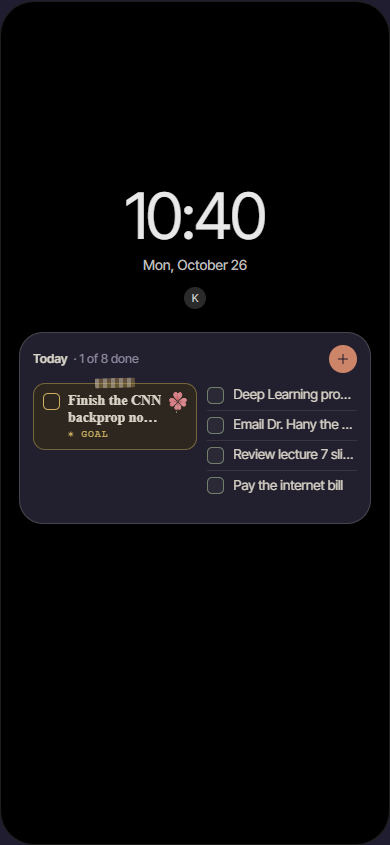
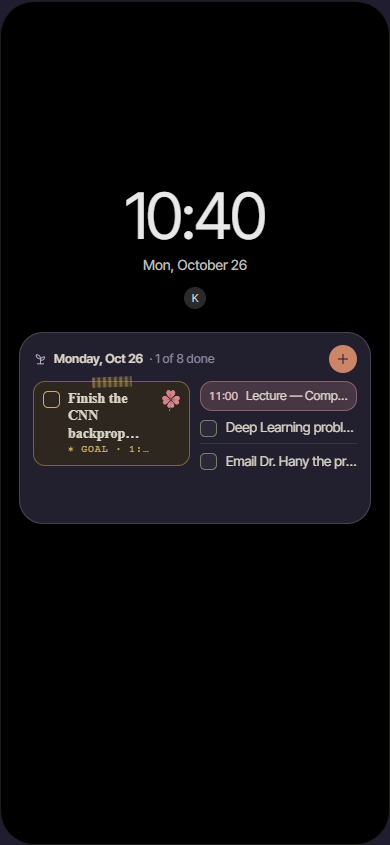
design(today-looks): Samsung lock screen — research verdict + options A LockStar widget, B Now Bar Live Update, C ongoing day-strip notification (lock + AOD, day + night)
Each option labelled with the One UI version it needs and how it would be built; sources in the handoff.

Changed region(s): [[0.0923, 0.4, 0.9231, 0.5846], [0.0923, 0.5231, 0.1231, 0.5538]]

diff --git a/design-export/Phone home options.html b/design-export/Phone home options.html
@@ -670,10 +670,10 @@ const lsStat = (aod) => `<div class="st"><span>${aod ? '' : '10:40'}</span><span
 const lsFrame = (aod, inner, o = {}) => `<div class="ls ${aod ? 'aod' : 'wall'}">${lsStat(aod)}${o.chip && !aod ? `<span class="chipsb">◷ ${o.chip}</span>` : ''}<div class="clk">10:40</div><div class="dt">Mon, October 26${aod ? '' : ' · ☀ 27°'}</div>${aod ? `<div class="icons">${(o.aodIcons ?? ['K']).map((x) => `<i>${x}</i>`).join('')}</div>` : ''}${inner}${aod ? '' : '<div class="fp"></div><span class="sc" style="left:26px">☏</span><span class="sc" style="right:26px">◉</span>'}</div>`
 const segs = () => { const tot = 22 - 8; return `<span class="nbseg">${EV.map((e, i) => `<i style="width:${((e.b - e.a) / tot) * 100}%;background:var(--blk-${e.c});opacity:${e.past ? .5 : 1}"></i>`).join('')}</span>` }
 const nowBar = () => `<div class="nowbar"><span class="ap">K</span><span class="ti">Lecture — Computer Vision<small>11:00–12:30 · then ✶ CNN notes 1:30</small>${segs()}</span><span class="crit">20m</span></div>`
-const lockWidget = (aod) => `<div class="slot" style="top:${aod ? 330 : 236}px;height:192px"><div class="cell" style="position:absolute;inset:0"><div class="wg" style="inset:0${aod ? ';opacity:.9' : ''}">${FAM.A.m()}</div></div></div>`
+const lockWidget = (aod) => `<div class="slot" style="top:${aod ? 330 : 236}px;height:192px"><div class="cell" style="position:absolute;inset:0"><div class="wg" style="inset:0${aod ? ';opacity:.9' : ''}">${EX.find((x) => x[0] === '04')[6]()}</div></div></div>`
 const stripNote = (aod) => `<div class="slot" style="top:${aod ? 300 : 238}px"><div class="nt"><div class="hd"><b>K</b>Kai's Flow · now</div><div class="t">Next · 11:00 Lecture — Computer Vision</div><div class="cust"><div class="wg" style="position:relative;inset:auto;padding:0;border:0;background:none;box-shadow:none">${(() => { const x = (h) => ((h - 8) / 14) * 100; return `<div class="wstrip" style="margin-top:2px">${EV.map((e) => `<span class="rb${e.past ? ' past' : ''}${e.goal ? ' goal' : ''}" style="${B(e.c)};left:${x(e.a)}%;width:${x(e.b) - x(e.a)}%"></span>`).join('')}<span class="nw" style="left:${x(NOW)}%"></span><div class="ax"><span>8</span><span>12</span><span>16</span><span>20</span></div></div>` })()}</div></div><div class="acts"><span>Start focus</span><span>Snooze 10 min</span></div></div></div>`
 const LOCK = [
-  ['A', 'Top 3 widget on the lock screen and AOD', 'Matches direction A. The redone Checklist widget (medium, 4 × 2) sits under the clock, and the AOD shows it too. The ticks are the widget\'s own ticks. Anything that opens the app asks you to unlock first.',
+  ['A', 'Top 3 widget on the lock screen and AOD', 'Matches direction A. The modern W04 Today · Top 3 widget (4 × 2, from the grid below) sits under the clock, and the AOD shows it too. The ticks are the widget\'s own ticks. Anything that opens the app asks you to unlock first.',
     ['One UI 6.1, 7, 8: through Good Lock › LockStar', 'Built as: our existing AppWidget (no new code path)'], ['Not in the lock screen\'s own widget picker (Samsung widgets only)'],
     (aod) => lsFrame(aod, lockWidget(aod), { aodIcons: ['K'] })],
   ['B', 'Now Bar Live Update: the block that\'s on now', 'Matches direction B. The Now Bar shows the current or next block, with today\'s blocks as palette C segments and "20m" as the chip, and the status bar shows the same chip. Samsung draws the pill. We choose the words, the icon and the segment colours.',
@@ -683,14 +683,14 @@ const LOCK = [
     ['One UI 6.1, 7, 8', 'Built as: an ongoing notification with a custom RemoteViews layout (DecoratedCustomViewStyle) and actions; a Chronometer for the countdown'], ['Not a Live Update (custom layouts can\'t be promoted)'],
     (aod) => lsFrame(aod, aod ? '' : stripNote(aod), { aodIcons: ['K', '✉', '◷'] })],
 ]
-document.getElementById('lockopts').innerHTML = LOCK.map(([d, name, say, needs, nots, draw]) => `
+const renderLock = () => { document.getElementById('lockopts').innerHTML = LOCK.map(([d, name, say, needs, nots, draw]) => `
   <div class="look" style="margin-top:28px" data-grp="lock" data-look="${d}">
     <h2 style="font-size:24px"><span class="tag">${d}</span>${name}</h2>
     <div class="say"><p>${say}</p></div>
     <div class="need">${needs.map((n) => `<span>${n}</span>`).join('')}${nots.map((n) => `<span class="no">${n}</span>`).join('')}</div>
     <div class="shots"><figure data-lock="${d}-lock">${draw(false)}<figcaption>Lock screen (the widget follows the phone's day or dark mode)</figcaption></figure><figure data-lock="${d}-aod">${draw(true)}<figcaption>Always On Display</figcaption></figure></div>
     <div class="pick-row"><button type="button" class="btn pick" data-grp="lock" data-pick="${d}" aria-pressed="false">This one (lock ${d})</button></div>
-  </div>`).join('')
+  </div>`).join('') }
 
 // ════════ the 32 widgets: redo / restyle / merge — every one gets its modern face (Kai 26 Oct: build every widget,
 // nothing is cut). One family style, led by B (Now + next): the paper card at the system radius, a line icon + a
@@ -782,6 +782,7 @@ document.getElementById('exgrid').innerHTML = EX.map(([n, name, w, h, v, why, dr
     <div class="cf"><button type="button" class="btn pick" data-grp="w${n}" data-pick="ok" aria-pressed="false">Agree</button><button type="button" class="btn pick" data-grp="w${n}" data-pick="no" aria-pressed="false">Not this</button></div>
   </div>`).join('')
 
+renderLock()
 // ── density: task rows wholly on screen (the goal counts as one), counted in the drawing itself ──
 function count(frame) {
   const fb = frame.getBoundingClientRect().bottom

diff --git a/docs/log/2026-10-26-1720-today-looks-handoff.md b/docs/log/2026-10-26-1720-today-looks-handoff.md
@@ -265,3 +265,64 @@ W02, W08, W09–W13, W16–W18, W21–W23, W25–W28, W31–W34.
 - system `serif` for the display moments.
 
 **Shots:** `docs/log/assets/today-looks/phone/widgets-existing-day.png` and `widgets-existing-night.png`.
+
+## Push 2: the Samsung lock screen is FINAL
+
+**Final:** the lock-screen section (`#lockscreen`). The widget grid is unchanged from push 1, except that lock option A now shows the modern W04.
+
+### Research verdict: what a third-party app can put on Samsung's lock screen
+
+Web search done 2026-10-26 (extended mode).
+
+| Surface | One UI 6.1 | One UI 7 | One UI 8 (Android 16) | How we'd build it |
+|---|---|---|---|---|
+| Lock screen / AOD widget picker (native) | Samsung's own only | Samsung's system widgets only; no third-party | Third-party not confirmed. Google's lock-screen "hub" with any app's widgets arrives in Android 16 QPR2 on Pixels; Samsung was *expected* to adopt it, but nothing confirms it ships | — |
+| Good Lock › LockStar | Any AppWidget on the lock screen and AOD | Any AppWidget (LockStar 7.0.00.14+, plugs into the native editor) | Works. In the 8.5 beta, LockStar is reported broken | Our existing AppWidgets; nothing new to build |
+| Now Bar / Live Notifications | Doesn't exist | Samsung's apps and a few partners only | Any app posting an Android 16 Live Update. In Beta 3 it was behind the developer switch "Live notifications for all apps", expected on in stable; Zomato ships it on 8.0 | Ongoing notification with ProgressStyle (or Standard / BigText), `setRequestPromotedOngoing(true)`, `POST_PROMOTED_NOTIFICATIONS`, `setShortCriticalText`. No custom RemoteViews, not colorized, not a group summary, channel above MIN |
+| Ongoing notification on the lock screen | Yes | Yes | Yes (and promotable) | NotificationCompat ongoing, actions, Chronometer. A custom layout is allowed but then can't be a Live Update |
+| AOD | Notification icons; FaceWidgets are Samsung's | Icons; the Now Bar if "Show Now bar" is on; LockStar widgets | Same | — |
+
+Samsung draws the Now Bar itself. We only control:
+- the icon, title and text;
+- the short chip text;
+- the ProgressStyle segments and points, and their colours.
+
+We can't control fonts, the paper look or layout.
+
+**The options drawn** (matching A/B/C):
+- **A · a lock-screen widget through LockStar.** One UI 6.1, 7, 8. It's the AppWidget we already have, so no new code. It is *not* in the native picker.
+- **B · a Now Bar Live Update.** One UI 8+ only. ProgressStyle, with today's blocks as palette C segments and "20m" in the chip. On One UI 6.1 / 7 it falls back to an ordinary notification.
+- **C · an ongoing notification with the day strip.** Every version. A custom layout, so it's not promotable. The AOD shows only its icon.
+
+To check on Kai's phone:
+- the One UI version (Settings › About phone › Software information);
+- whether Good Lock is offered in his region;
+- whether a widget tick works without unlocking. A tick is a broadcast, so it may run while locked; opening the app always asks to unlock.
+
+**Sources:**
+- [SamMobile: One UI 7 removes the lock-screen widget carousel](https://www.sammobile.com/news/one-ui-7-lock-screen-widgets-carousel-removed/)
+- [Android Authority: One UI 7's big lock-screen widget change](https://www.androidauthority.com/one-ui-7-widget-carousel-3507162/)
+- [Samsung support: widgets on the lock screen and AOD in One UI 7+](https://www.samsung.com/ae/support/mobile-devices/how-to-add-widgets-on-the-lock-screen-and-aod-in-one-ui-7-or-later/)
+- [9to5Google: Good Lock lets you use any widget on the lock screen](https://9to5google.com/2023/08/07/samsung-good-lock-lockscreen-widgets/)
+- [Android Police: any widget on the lock screen / AOD via Good Lock](https://www.androidpolice.com/good-lock-widgets-aod/)
+- [SammyGuru: LockStar on One UI 7](https://sammyguru.com/lockstar-hits-one-ui-7-heres-whats-new/)
+- [Samsung Community: LockStar on One UI 7.0 review](https://eu.community.samsung.com/t5/galaxy-s25-series/lockstar-on-one-ui-7-0-full-review/td-p/12118454)
+- [Android Police: One UI 8.5 beta breaks Good Lock tools](https://www.androidpolice.com/one-ui-85-beta-breaks-a-fan-favorite-customization-tool/)
+- [Android Authority: One UI 8 lets any app show a Live Notification in the Now Bar](https://www.androidauthority.com/one-ui-8-live-updates-support-3573794/)
+- [Android Police: One UI 8 Now Bar / Live Updates confirmed](https://www.androidpolice.com/one-ui-8-now-bar-live-updates-integrations-confirmed/)
+- [SamMobile: Now Bar on One UI 8 gains a food delivery app (Zomato)](https://www.sammobile.com/news/one-ui-8-now-bar-support-food-delivery-app/)
+- [Android Police: using the Now Bar on the lock screen and AOD](https://www.androidpolice.com/use-samsungs-now-bar-lock-screen-aod-tutorial/)
+- [Android Developers: Live Update notifications (requirements)](https://developer.android.com/develop/ui/compose/notifications/live-update)
+- [Android Authority: Android 16 QPR1 Live Updates](https://www.androidauthority.com/android-16-qpr1-live-updates-3573399/)
+- [9to5Google: Android 16 QPR2 lock-screen widgets / hub mode](https://9to5google.com/2025/08/20/android-qpr2-lock-screen-widgets/)
+- [Sammy Fans: One UI 8 expected to support third-party lock-screen widgets](https://www.sammyfans.com/2025/03/07/samsungs-one-ui-8-android-16-to-support-third-party-lock-screen-widgets/)
+
+**Shots** in `docs/log/assets/today-looks/phone/`:
+- `lockscreen-<A|B|C>-<lock|aod>-<day|night>.png`
+- `widgets-existing-<day|night>.png`
+- `page-*.png`
+
+**Checks:**
+- No page errors.
+- No broken images.
+- Copy my picks gives `Phone home: phone B; widgets B; lock B; widget verdicts OK: W03; NOT: W34`.

diff --git a/docs/log/INDEX.md b/docs/log/INDEX.md
@@ -190,4 +190,4 @@
 - 2026-10-26 04:53 · handoff · typing (queue 15 + 16): type a time, length or range wherever one is picked — "50m", "1h20", "1:45", "7:10 pm", "7–8:30", "noon", "in 2h" (command-bar/typedTime through parseCommand's length token + chrono; an hour without am/pm takes the half of the day nearest the block, 24h as typed), echoed live, Enter applies, nonsense explains itself, pickers kept — block popover, Time ▸ / Time sheets / Set time, Plan, editor, Duration list, quick create (desktop + phone); one length control per surface (Duration submenu gone, no chips in Time sheets under a surface's own, phone sheet's ⏱ chip hidden while on the calendar); typing harness 101/101, stale expectations updated in bugs-1023 (p1/p2), task-sheet (4a), event-detail (a2/b3) — `2026-10-26-0453-typing-handoff.md`
 - 2026-10-26 05:05 · handoff · settings-build (Kai: "layout A, rows A" + "the new icons didn't land on the phone"): 11 categories with kf icons (5 new glyphs) left, one per page (/settings/<category>, providers /settings/integrations/<p>), rounded-panel rows, pickers past three choices, terra danger zone in Account (Delete account + Sign out), phone list that drills in, search showing real controls with › (?q=), old #settings-* anchors + ?google= redirect; every setting once (cal-wave View options, tray, widgets, legal, AI rows placed); More sheet wears the sidebar's line icons; 2522 tests, lint 0, build, ds 0 new, birthday_on 1/1; settings-build 193/193 + 10 harnesses green (8 retargeted) — `2026-10-26-0505-settings-build-handoff.md` (branch claude/settings-build)
 - 2026-10-26 04:43 · handoff · cal-blocks (Kai's picks palette C, menu B, check B, repeat B + queue item 10): palette C as --blk-* tokens (day/night, AA text tones; the 9 old colours drawn as their nearest swatch, custom colours get a worked-out AA tone; Iris/Rose kind defaults; ran-over terra #7C341D/#FFE0D3; 20% night fill); menu B (title, swatch tray + Custom, Duplicate Ctrl D, Work with AI › → chat prefilled, Copy link; phone sheet too); Ctrl+drag copies a block; check B (2px edge, 13px, 38% corners, on the title line 100–150%) and repeat B (chasing box, "Complete this occurrence (repeats …)"); live multi-drag (every picked block a ghost with its offset + wobble, lands together, "3 blocks moved · Undo", off-screen moves refused); chat starter taken after mount; 2521 tests ×4 TZ, lint 0, build, ds 0 new; cal-blocks 93/93 + 11 calendar suites green — `2026-10-26-0443-cal-blocks-handoff.md` (branch claude/cal-blocks)
-- 2026-10-26 17:20 · handoff · today-looks (Kai: "redesign the homescreen … too spacious, a couple directions"; then clarified: the PHONE): looks only. Desktop `design-export/Today options.html` (A command centre / B calendar-led / C focus first; at 1280×800, 100%: now 4 tasks above the fold → 10 / 8 / 8). Phone `design-export/Phone home options.html`: the first screen as A list first / B now + next / C day strip (at 390: now 3 → 10 / 7 / 8; at 360: 8 / 6 / 8; at 430: 10 / 8 / 8), with matching Android widget families A checklist / B Now card / C day strip (2×2, 4×2, 4×4 on a home screen, day and dark), the 32 current widgets listed, Android limits noted; day + night shots in assets/today-looks/ and phone/ — `2026-10-26-1720-today-looks-handoff.md` (branch claude/today-looks)
+- 2026-10-26 17:20 · handoff · today-looks (Kai: "redesign the homescreen … too spacious, a couple directions"; then clarified: the PHONE): looks only. Desktop `design-export/Today options.html` (A command centre / B calendar-led / C focus first; at 1280×800, 100%: now 4 tasks above the fold → 10 / 8 / 8). Phone `design-export/Phone home options.html`: the first screen as A list first / B now + next / C day strip (at 390: now 3 → 10 / 7 / 8; at 360: 8 / 6 / 8; at 430: 10 / 8 / 8), with matching Android widget families A checklist / B Now card / C day strip (2×2, 4×2, 4×4 on a home screen, day and dark), the 32 current widgets with a modern face each (10 redo, 21 restyle, W24 merges into W23: the spec for claude/widgets-build), the Samsung lock screen (research: native lock-screen widgets are Samsung-only, third-party ones only through Good Lock LockStar; the Now Bar is open to any app's Android 16 Live Updates from One UI 8) with options A LockStar widget, B Now Bar Live Update, C ongoing day-strip notification, Android limits noted; day + night shots in assets/today-looks/ and phone/ — `2026-10-26-1720-today-looks-handoff.md` (branch claude/today-looks)
